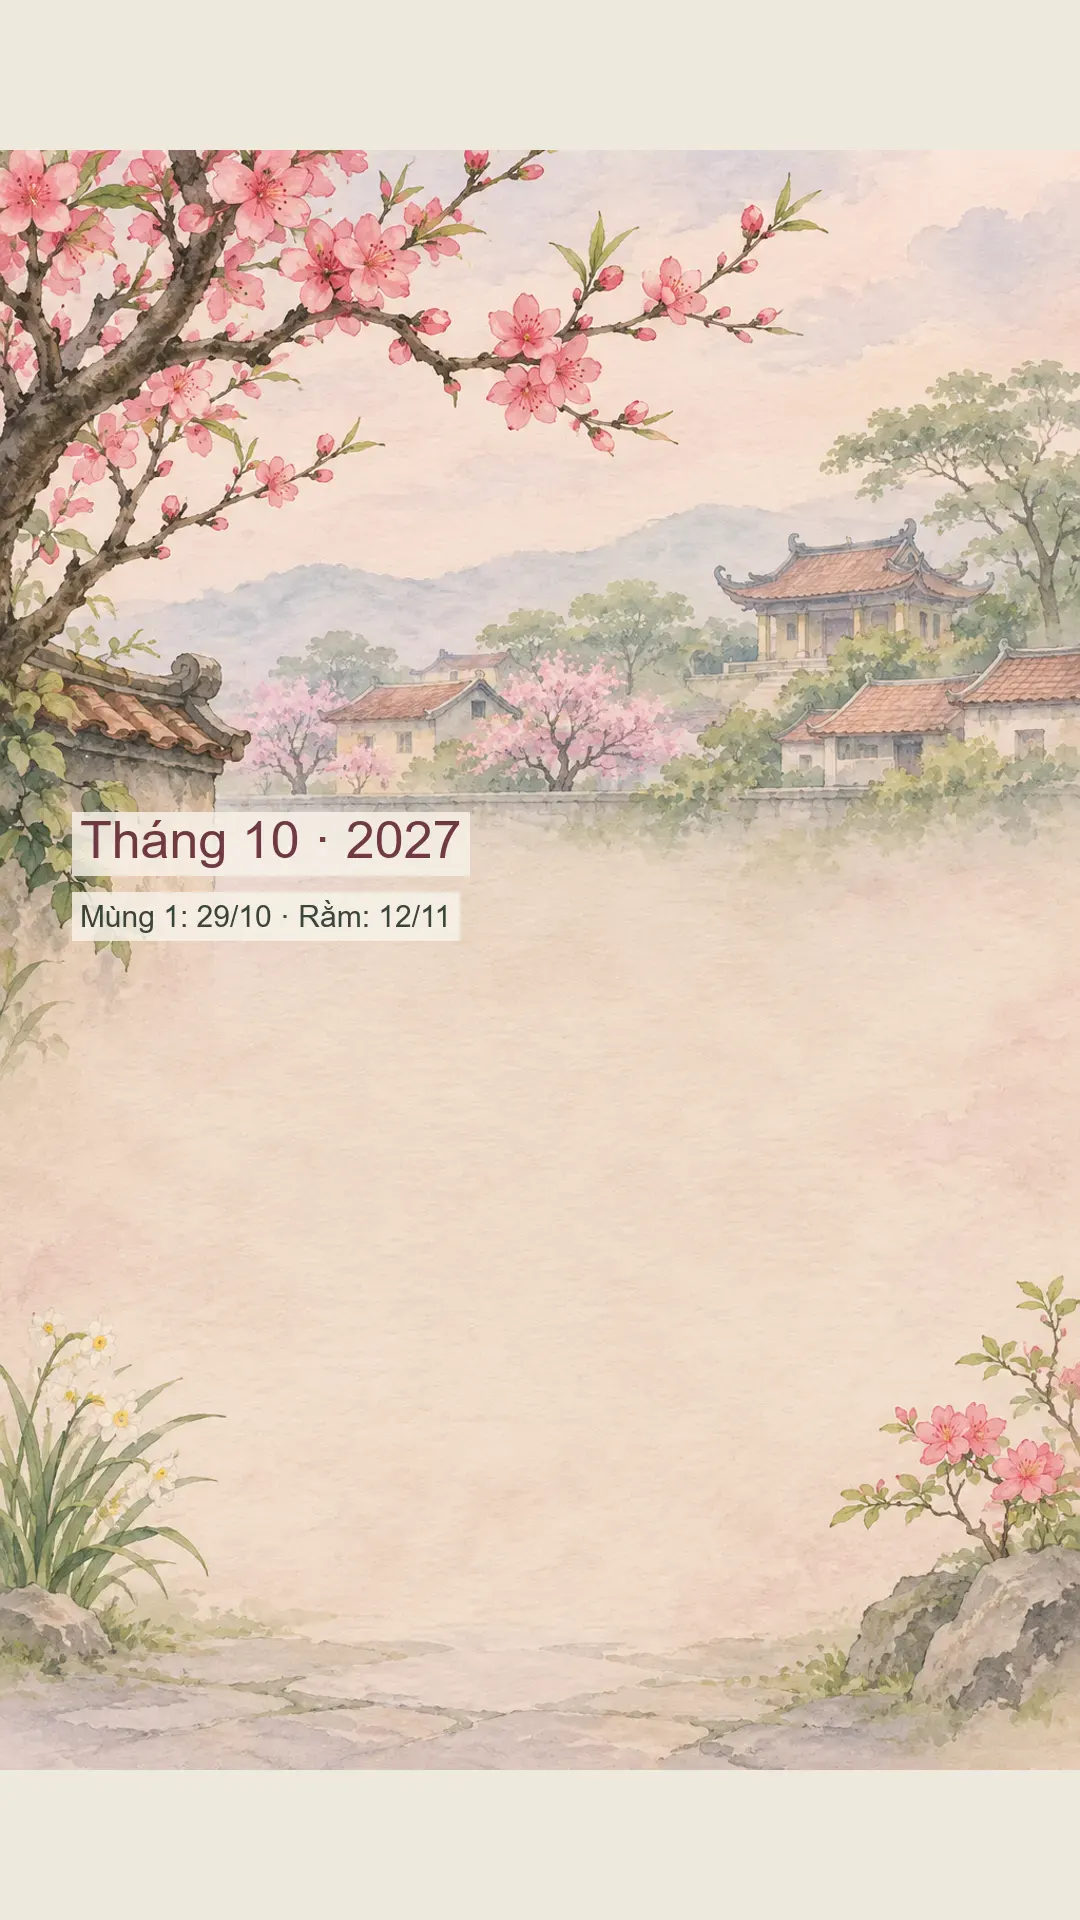
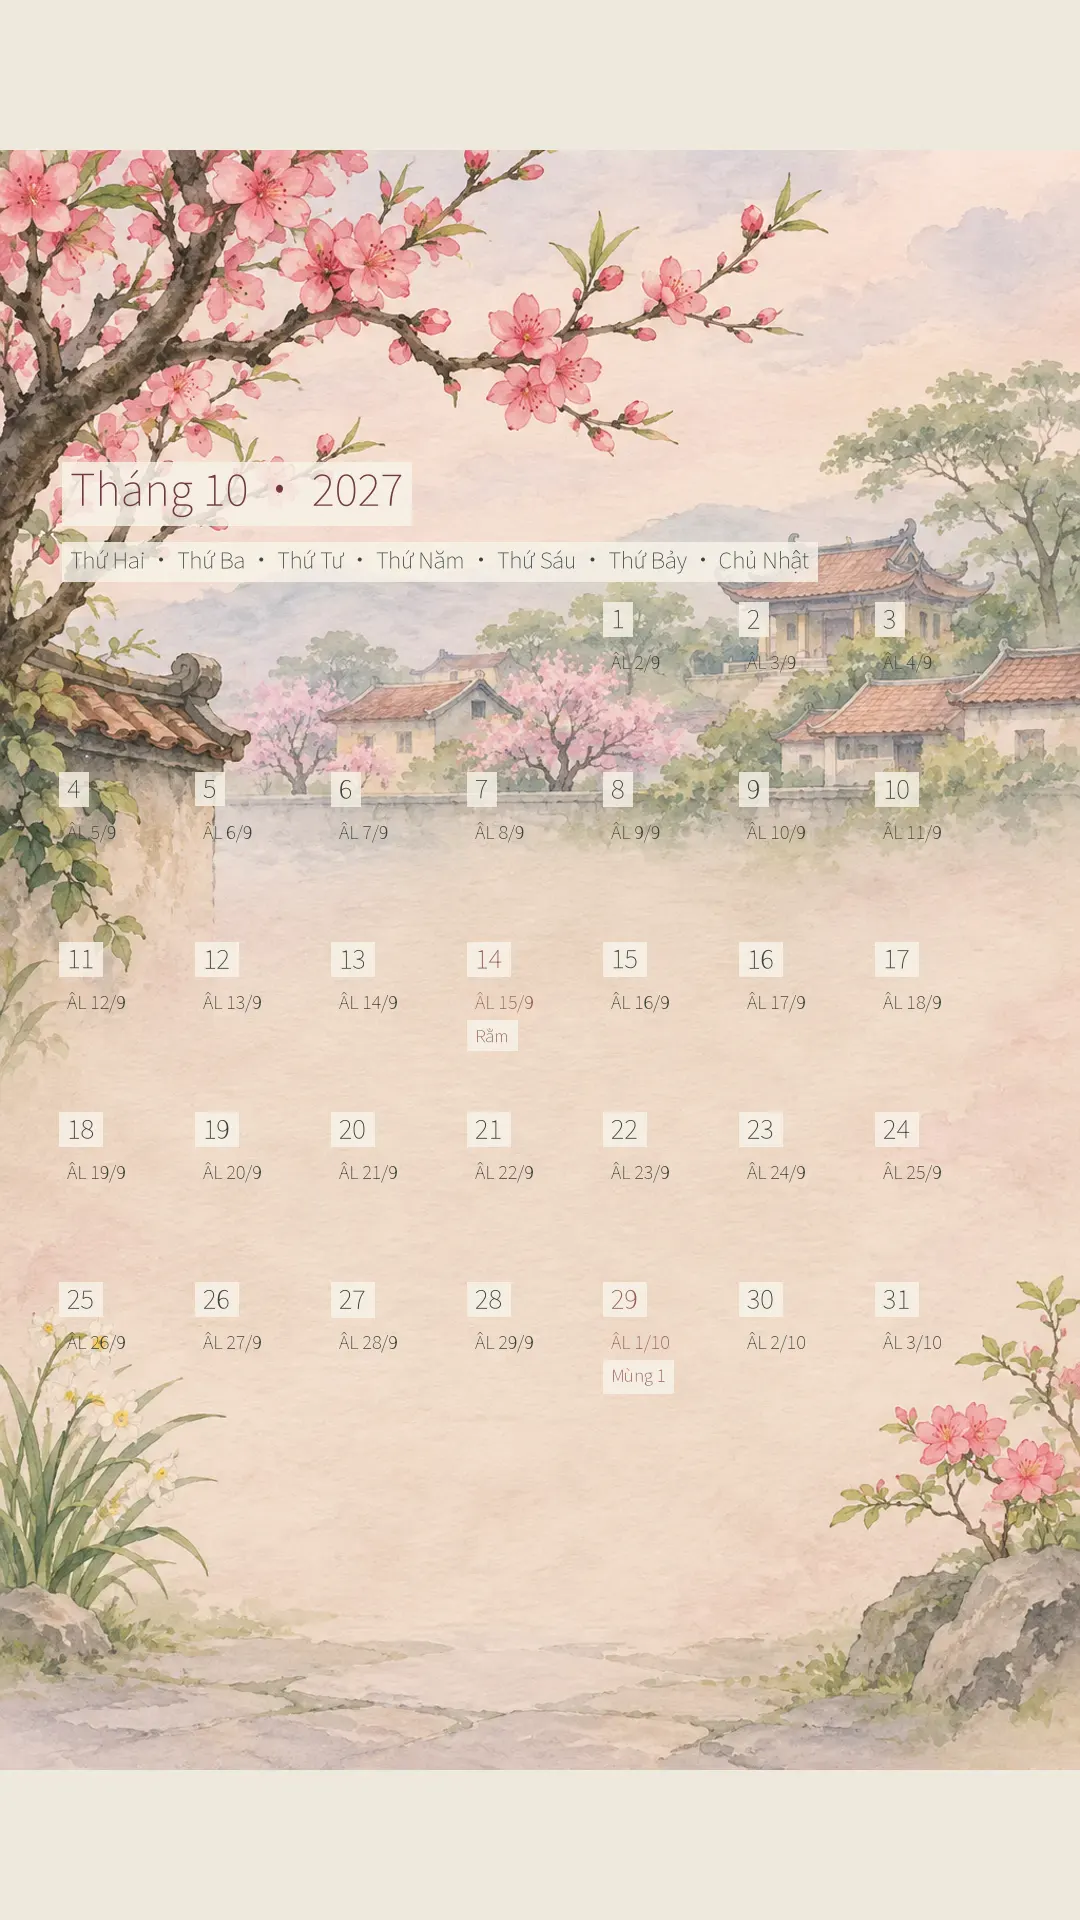
fix: rebuild calendar layout and twelve-panel overview

diff --git a/CCGS/temple-town/v3-08-digital-calendar.md b/CCGS/temple-town/v3-08-digital-calendar.md
@@ -49,4 +49,5 @@
 - `review/p34-calendar/calendar-2027-feb.webp`：2027 年 2 月含 Tết 手机壁纸样张。
 - `review/p34-calendar/calendar-2027-overview.webp`：全年总览样张。
 - P39 修订脚本：`tools/render-calendar-2027.mjs` 读取 `tools/calendar-2027-dates.json`，调用仓库已有的 Hồ Ngọc Đức UTC+7 算法，断言 24 个 mùng 1/rằm 日期后再用日期层排字，生成总览、2 月、9 月和 10 月图；AI 图只提供背景。
+- P44 版式修订：月图由脚本排出周一至周日完整格子、逐日公历/农历日、mùng 1 与 rằm 高亮；总览背景为 4×3 十二格。排字使用系统已有 `NotoSansSC-VF.ttf`（Noto Sans CJK，SIL Open Font License，可免费商用），不下载或安装新软件。
 - `*-background.webp` 和 SVG overlay 是生成/排版过程参考；所有图均为 Codex 内置 imagegen 或本地排版样张，external_source=none，generated=2026-11-12，status=review-only，未进入正式素材目录。
